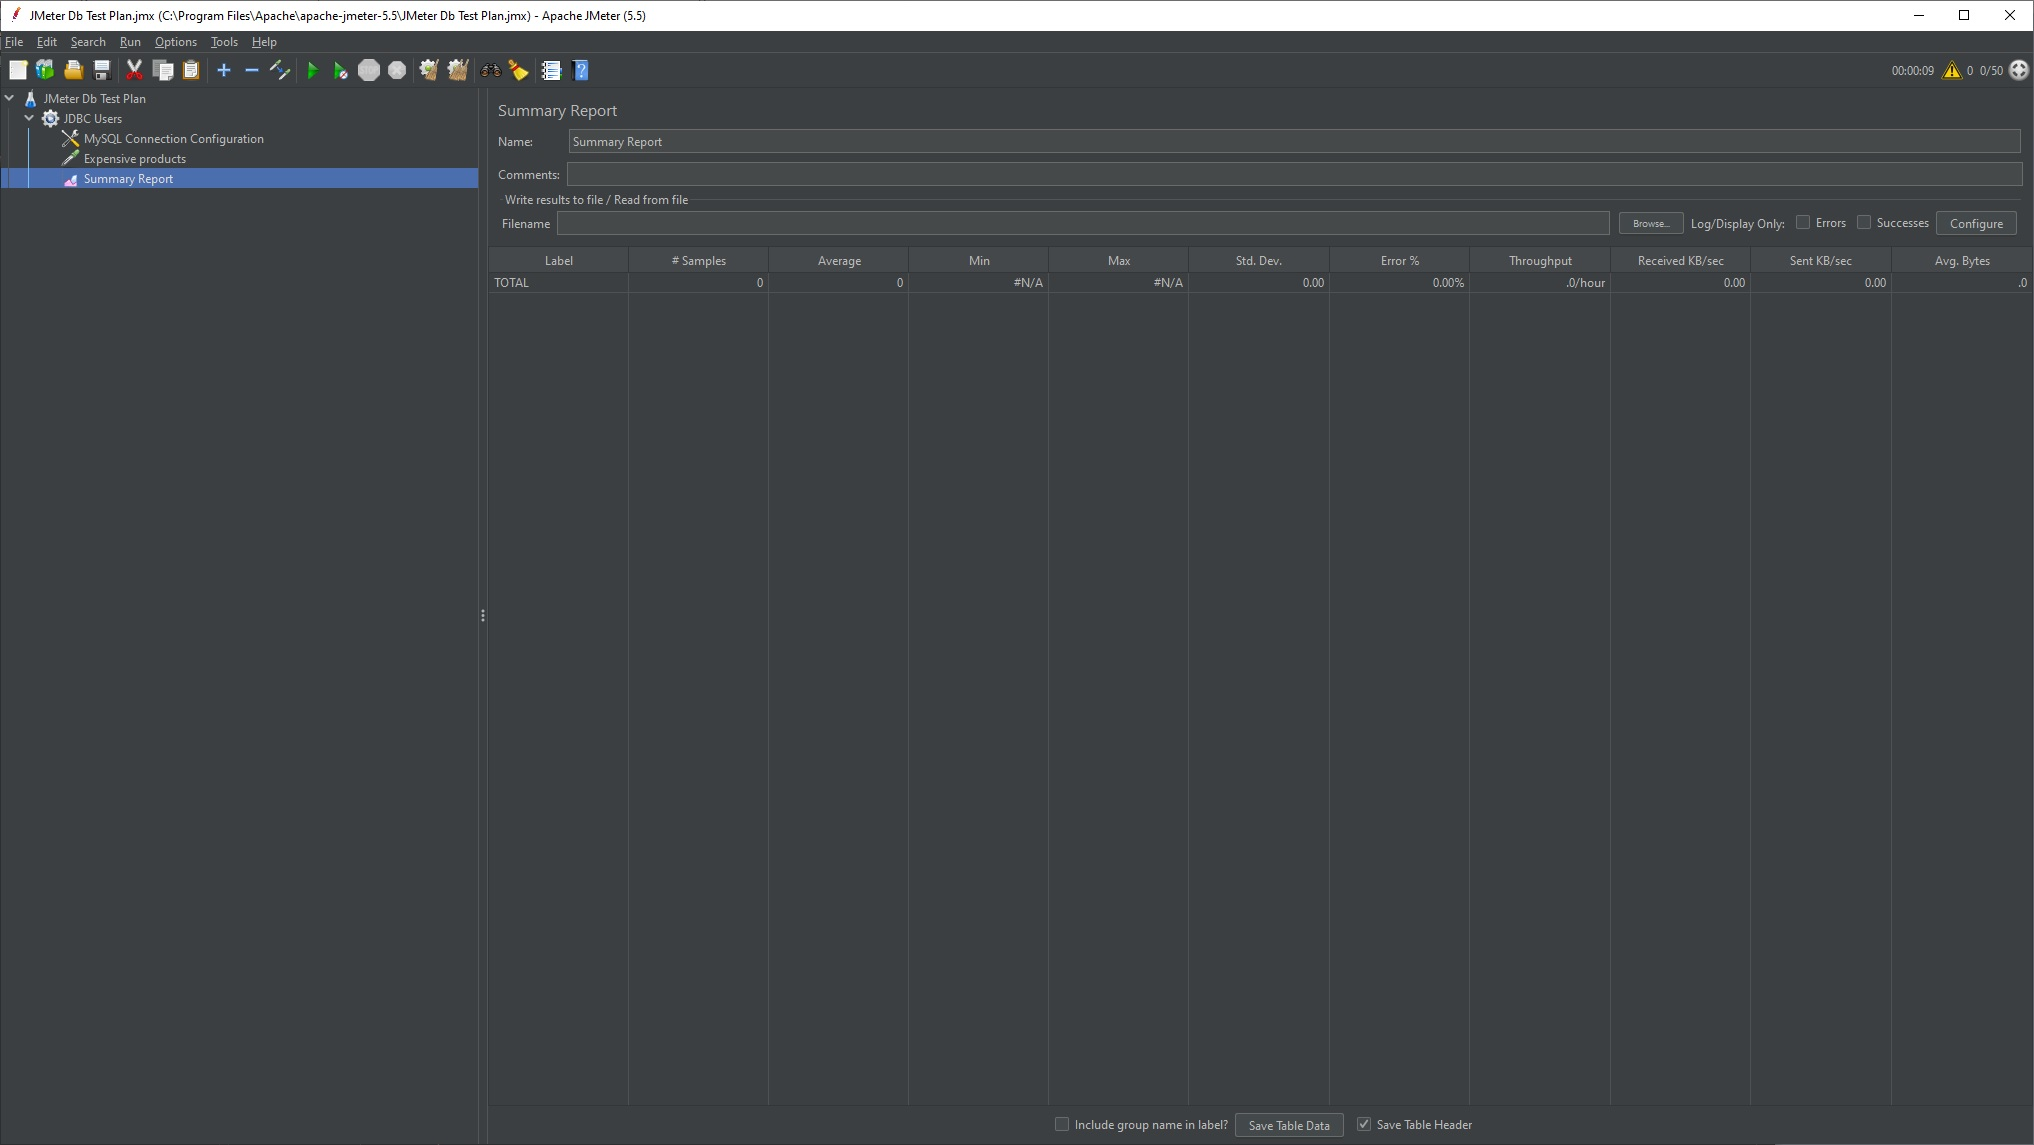
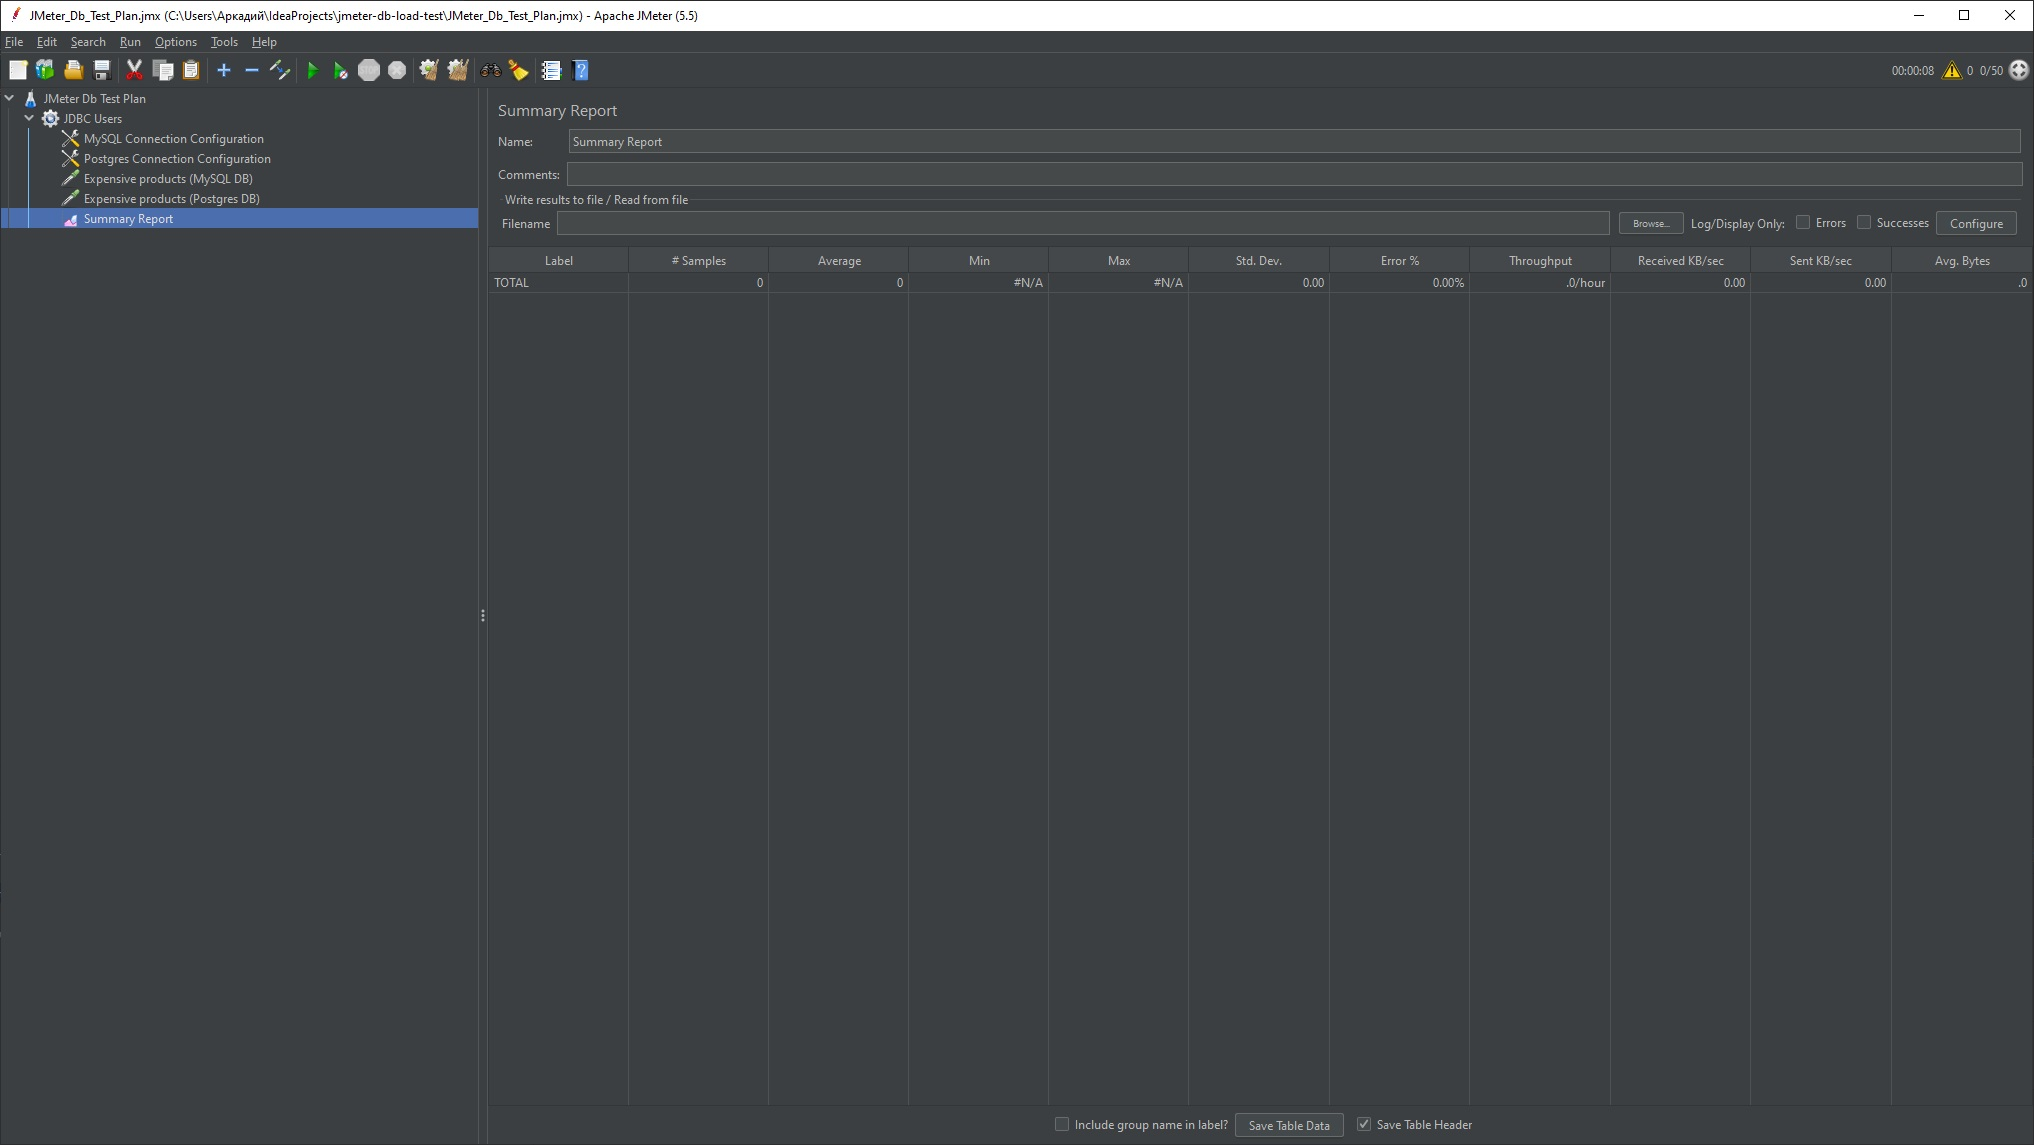
added postgres db and docker-compose to README.md

Changed region(s): [[0.0, 0.1223, 0.2478, 0.214], [0.031, 0.0, 0.3407, 0.0306]]

diff --git a/README.md b/README.md
@@ -1,4 +1,11 @@
-# Нагрузочное тестирование базы данных при помощи JMeter
+# Нагрузочное тестирование баз данных при помощи JMeter
+
+## Необходимое ПО
+
+Для установки JMeter и проведения нагрузочного тестирования потребуются:
+
+- Java 8+ (установка описана ниже)
+- Docker ([инструкция по установке docker](https://docs.docker.com/engine/install/))
 
 ## Установка JMeter
 
@@ -100,6 +107,41 @@ Check : https://jmeter.apache.org/usermanual/best-practices.html
 
 ![](https://github.com/bezgerts/jmeter-db-load-test/blob/main/images/main_screen.jpg)
 
+## Запуск баз данных в Docker
+
+Для запуска баз данных, которые будут тестироваться при помощи JMeter, необходимо:
+
+- откорректировать скрипты миграции;
+- запустить docker-compose;
+
+### Корректировка скриптов миграции
+
+В корне репозитория находятся два файла: `init-mysql.sql` и `init-postgres.sql`.
+
+В этих файлах указываются sql-скрипты, которые будут выполнены после старта контейнеров, запущенных в `docker-compose`.
+
+При необходимости можно скорректировать данные скрипты, чтобы эмулировать нагрузку на реальные схемы данных.
+
+### Запуск docker-compose
+
+В docker-compose можно выделить необходимые ресурсы под каждый из контейнеров. 
+
+В примере на каждый контейнер выделяется по одному процессору и по 256 мегабайт оперативной памяти.
+
+```
+ deploy:
+      resources:
+        limits:
+          cpus: '1'
+          memory: 256M
+```
+
+Для запуска `docker-compose` необходимо открыть терминал, перейти в директорию, в которой расположен `docker-compose.yml`, и выполнить команду:
+
+```bash
+docker-compose up
+```
+
 ## Создание тестового плана
 
 ### Изменение имени тестового плана
@@ -134,7 +176,7 @@ Thread Group - это элемент, который позволяет зада
 
 ![](https://github.com/bezgerts/jmeter-db-load-test/blob/main/images/thread_group.jpg)
 
-### Добавление JDBC Connection Configuration
+### Добавление MySQL Connection Configuration
 
 JDBC Connection Configuration - это элемент, который позволяет настраивать подключение к базе данных. 
 
@@ -146,16 +188,41 @@ JDBC Connection Configuration - это элемент, который позво
 
 Устанавливаем настройки в следующих полях (база MySQL):
 
-- Database URL: `jdbc:mysql://localhost:3306/otus`
-- Variable name: `myOtusDatabase` (переменная, которая связывает `JDBC Request` и `JDBC Connection Configuration`)
-- JDBC Driver class: `com.mysql.jdbc.Driver` (`org.postgresql.Driver` - для Postgres)
-- Username: имя пользователя базы данных
-- Password: пароль пользователя базы данных
+- Database URL: `jdbc:mysql://localhost:3309/otus`
+- Variable name: `myMySqlDatabase` (переменная, которая связывает `JDBC Request` и `JDBC Connection Configuration`)
+- JDBC Driver class: `com.mysql.jdbc.Driver`
+- Username: `root` 
+- Password: `12345`
 - Validation Query: `SELECT 1`
 
-![](https://github.com/bezgerts/jmeter-db-load-test/blob/main/images/jdbc_connection_configuration.jpg)
+Имя пользователя и пароль взяты из `docker-compose.yml`.
 
-### Добавление JDBC Request
+![](https://github.com/bezgerts/jmeter-db-load-test/blob/main/images/mysql_connection_configuration.jpg)
+
+### Добавление Postgres Connection Configuration
+
+JDBC Connection Configuration - это элемент, который позволяет настраивать подключение к базе данных.
+
+Щелкаем правой кнопкой мыши по `JDBC Users`.
+
+Выбираем `Add` -> `Config Element` -> `JDBC Connection Configuration`.
+
+Изменяем название `JDBC Connection Configuration` на `Postgres Connection Configuration`.
+
+Устанавливаем настройки в следующих полях (база Postgres):
+
+- Database URL: `jdbc:postgresql://localhost:5434/postgres`
+- Variable name: `myPostgresDatabase` (переменная, которая связывает `JDBC Request` и `JDBC Connection Configuration`)
+- JDBC Driver class: `org.postgresql.Driver`
+- Username: `postgres`
+- Password: `postgres`
+- Validation Query: `SELECT 1`
+
+Имя пользователя и пароль взяты из `docker-compose.yml`.
+
+![](https://github.com/bezgerts/jmeter-db-load-test/blob/main/images/postgres_connection_configuration.jpg)
+
+### Добавление JDBC Request для тестирования MySQL
 
 JDBC Request - это элемент, который позволяет настраивать запрос, отправляемый к базе данных.
 
@@ -163,17 +230,37 @@ JDBC Request - это элемент, который позволяет наст
 
 Выбираем `Add` -> `Sampler` -> `JDBC Request`.
 
-Изменяем название `JDBC Request` на `Expensive products`.
+Изменяем название `JDBC Request` на `Expensive products (MySQL DB)`.
 
 Указываем значения для полей:
 
-- Variable name: `myOtusDatabase` (переменная, которая связывает `JDBC Request` и `JDBC Connection Configuration`)
+- Variable name: `myMySqlDatabase` (переменная, которая связывает `JDBC Request` и `JDBC Connection Configuration`)
 - Query Type: `Prepared Select Statement`
-- SQL Query: `SELECT count(*) FROM otus.products p WHERE p.cost > ?`
+- SQL Query: `select count(*) from products p join product_categories pc on pc.id = p.category_id where p.cost > ?`
 - Parameter Values: 500
 - Parameter Types: numeric
 
-![](https://github.com/bezgerts/jmeter-db-load-test/blob/main/images/jdbc_request.jpg)
+![](https://github.com/bezgerts/jmeter-db-load-test/blob/main/images/mysql_jdbc_request.jpg)
+
+### Добавление JDBC Request для тестирования Postgres
+
+JDBC Request - это элемент, который позволяет настраивать запрос, отправляемый к базе данных.
+
+Щелкаем правой кнопкой мыши по `JDBC Users`.
+
+Выбираем `Add` -> `Sampler` -> `JDBC Request`.
+
+Изменяем название `JDBC Request` на `Expensive products (Postgres DB)`.
+
+Указываем значения для полей:
+
+- Variable name: `myPostgresDatabase` (переменная, которая связывает `JDBC Request` и `JDBC Connection Configuration`)
+- Query Type: `Prepared Select Statement`
+- SQL Query: `select count(*) from products p join product_categories pc on pc.id = p.category_id where p.cost > ?`
+- Parameter Values: 500
+- Parameter Types: numeric
+
+![](https://github.com/bezgerts/jmeter-db-load-test/blob/main/images/postgres_jdbc_request.jpg)
 
 ### Добавление отчетов о результатах тестирования (Summary Report)
 
@@ -185,7 +272,7 @@ Summary Report - это элемент, который позволяет уви
 
 ![](https://github.com/bezgerts/jmeter-db-load-test/blob/main/images/summary_report.jpg)
 
-### Добавление информации о выполненнии запросов (View Result Tree)
+### Добавление информации о выполнении запросов (View Result Tree)
 
 View Result Tree - это элемент, который позволяет увидеть информацию о выполнении каждого из запросов.
 
@@ -201,7 +288,9 @@ View Result Tree - это элемент, который позволяет ув
 
 После завершения тестирования в таблице будут отображаться результаты тестов.
 
-Основные параметры в результатах -  Average и Throughput. 
+Здесь можно сравнить время выполнения запросов на MySQL и Postgres.
+
+Основные параметры в результатах - Average и Throughput. 
 
 - Average - среднее время выполнения запроса
 - Throughput - количество запросов, обрабатываемых в единицу времени
